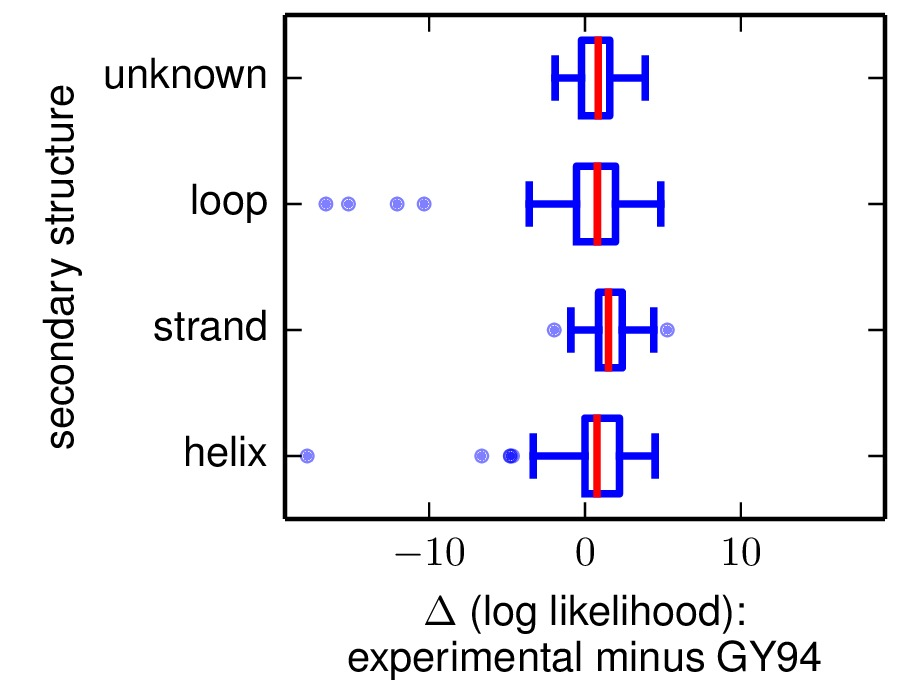
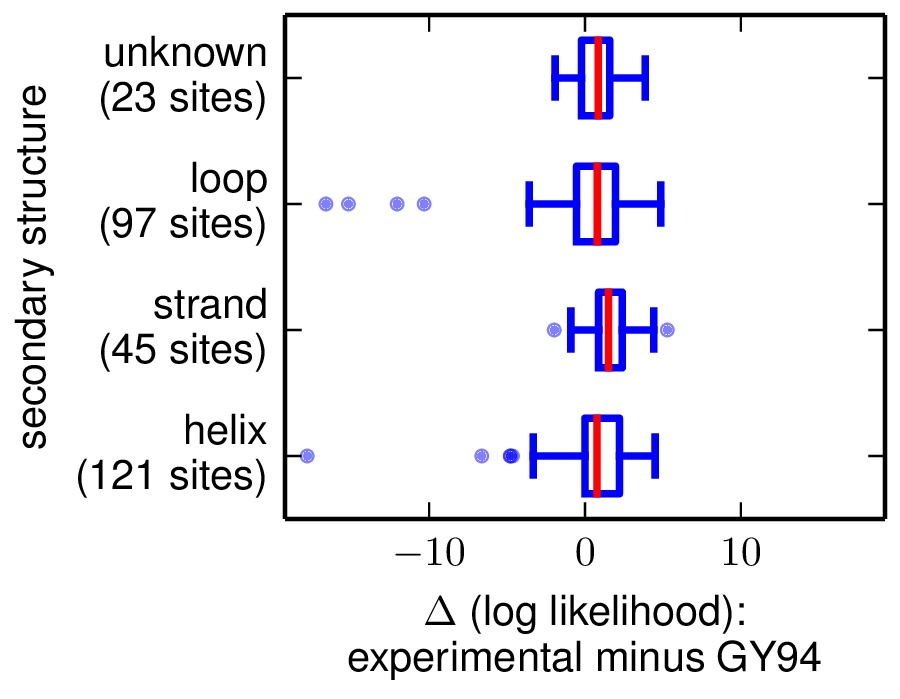
Now site likelihood comparison plots show counts

Changed region(s): [[0.0, 0.0601, 0.3111, 0.721]]

diff --git a/src/plot.py b/src/plot.py
@@ -50,7 +50,7 @@ def PlotSiteLikelihoods(sites, classifications, classificationtypes, xvalues, xl
 
     The each set of data is plotted using a box plots.
 
-    All strings (*xlabel*, *ylabels*, *classificationtypes*, *title*) use ``LaTex``
+    All strings (*xlabel*, *ylabel*, *classificationtypes*, *title*) use ``LaTex``
     formatting.
 
     CALLING VARIABLES:
@@ -122,8 +122,10 @@ def PlotSiteLikelihoods(sites, classifications, classificationtypes, xvalues, xl
     ys = []
     xs = []
     xmin = xmax = None
+    yticks = []
     for iclassification in range(nclassifications):
         ixdata = [xvalues[site] for site in sites if classifications[site] == classificationtypes[iclassification]]
+        yticks.append('%s\n(%d sites)' % (classificationtypes[iclassification], len(ixdata)))
         if xmin == None:
             (xmin, xmax) = (min(ixdata), max(ixdata))
         else:
@@ -163,7 +165,7 @@ def PlotSiteLikelihoods(sites, classifications, classificationtypes, xvalues, xl
     pylab.ylabel(ylabel, size=10)
     ax.xaxis.set_major_locator(matplotlib.ticker.MaxNLocator(5))
     ax.yaxis.set_major_locator(matplotlib.ticker.FixedLocator(ys))
-    ax.yaxis.set_major_formatter(matplotlib.ticker.FixedFormatter(classificationtypes))
+    ax.yaxis.set_major_formatter(matplotlib.ticker.FixedFormatter(yticks))
     pylab.savefig(plotfile)
     pylab.clf()
     pylab.close()

diff --git a/docs/phyloExpCM_SiteLikelihoodComparison.rst b/docs/phyloExpCM_SiteLikelihoodComparison.rst
@@ -77,20 +77,20 @@ These files all have the prefix specified by *outfileprefix* followed by the fol
         162 -12.0474    -102.512    -90.4646    loop    $< 0.33$
         237 -10.3165    -87.4672    -77.1507    loop    $0.33 - 0.67$
 
-Here are examples of the two plots:
+Here are examples of the two plots. The y-axis labels show the site category (top line of label) and the number of sites that fall into that category (bottom line of label).
 
-.. figure:: sitelikelihoodcomparison_byRSA.jpg
+.. figure:: example_2014Analysis_lactamase_sitelikelihoodcomparison_byRSA.jpg
    :width: 45%
    :align: center
-   :alt: sitelikelihoodcomparison_byRSA.jpg
+   :alt: example_2014Analysis_lactamase_sitelikelihoodcomparison_byRSA.jpg
 
    Example of the ``sitelikelihoodcomparison_byRSA.pdf`` plot.
 
 
-.. figure:: sitelikelihoodcomparison_bySS.jpg
+.. figure:: example_2014Analysis_lactamase_sitelikelihoodcomparison_bySS.jpg
    :width: 45%
    :align: center
-   :alt: sitelikelihoodcomparison_bySS.jpg
+   :alt: example_2014Analysis_lactamase_sitelikelihoodcomparison_bySS.jpg
 
    Example of the ``sitelikelihoodcomparison_bySS.pdf`` plot.
 
